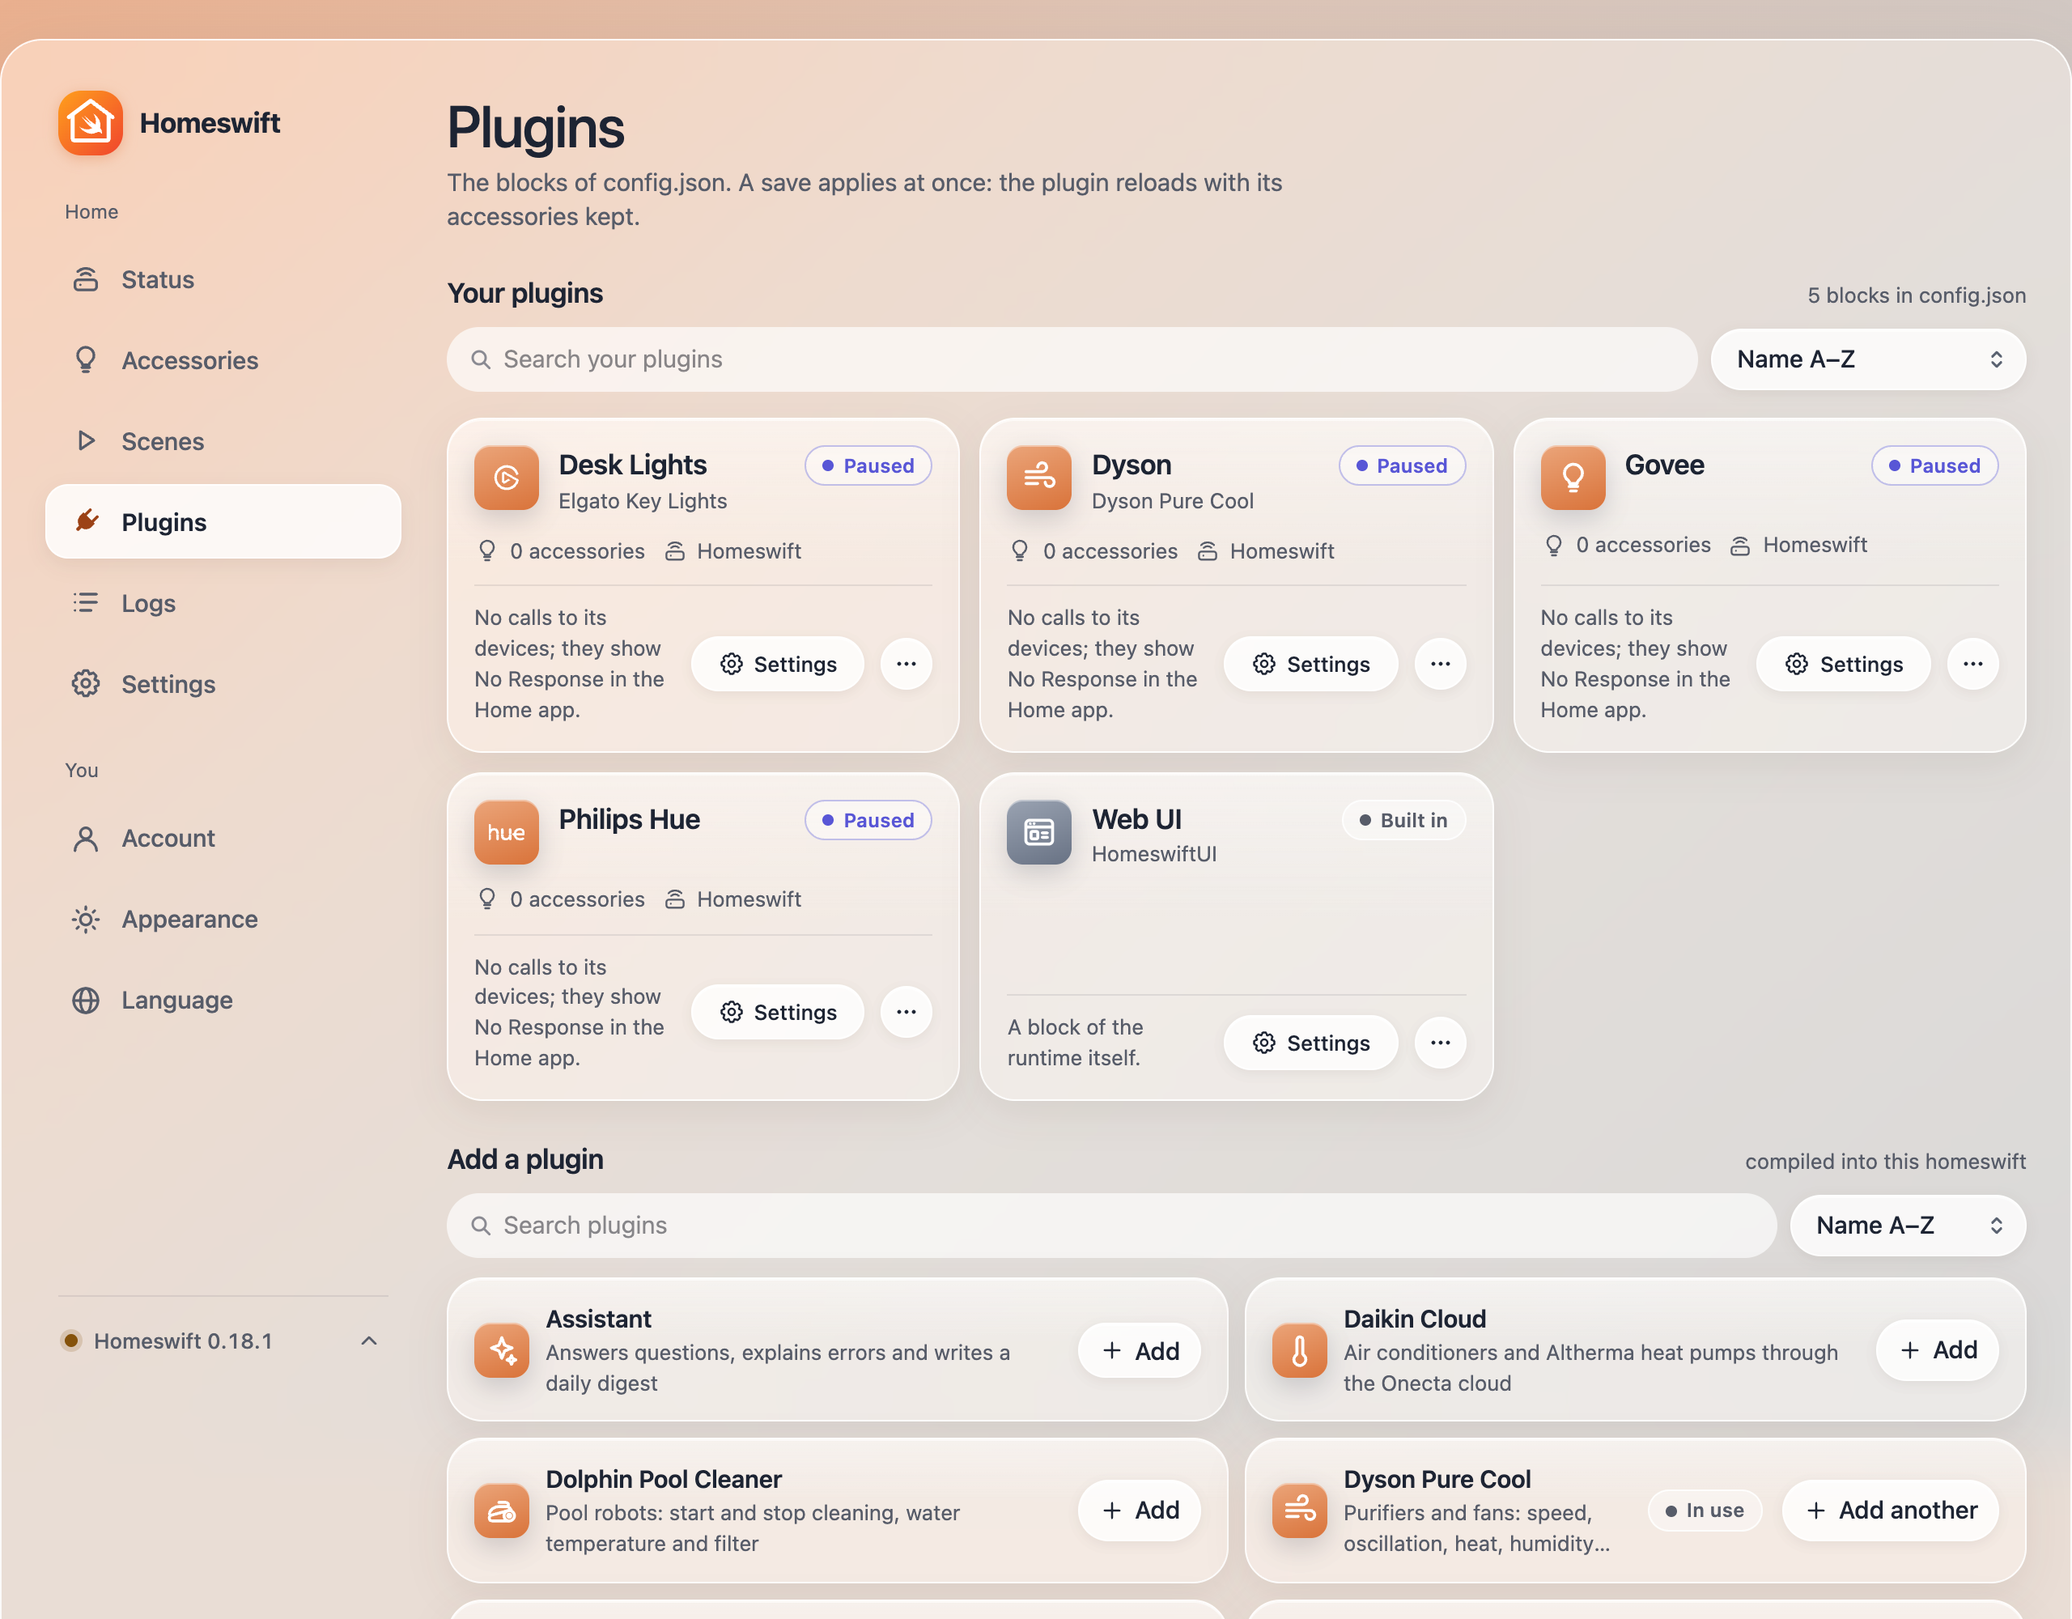
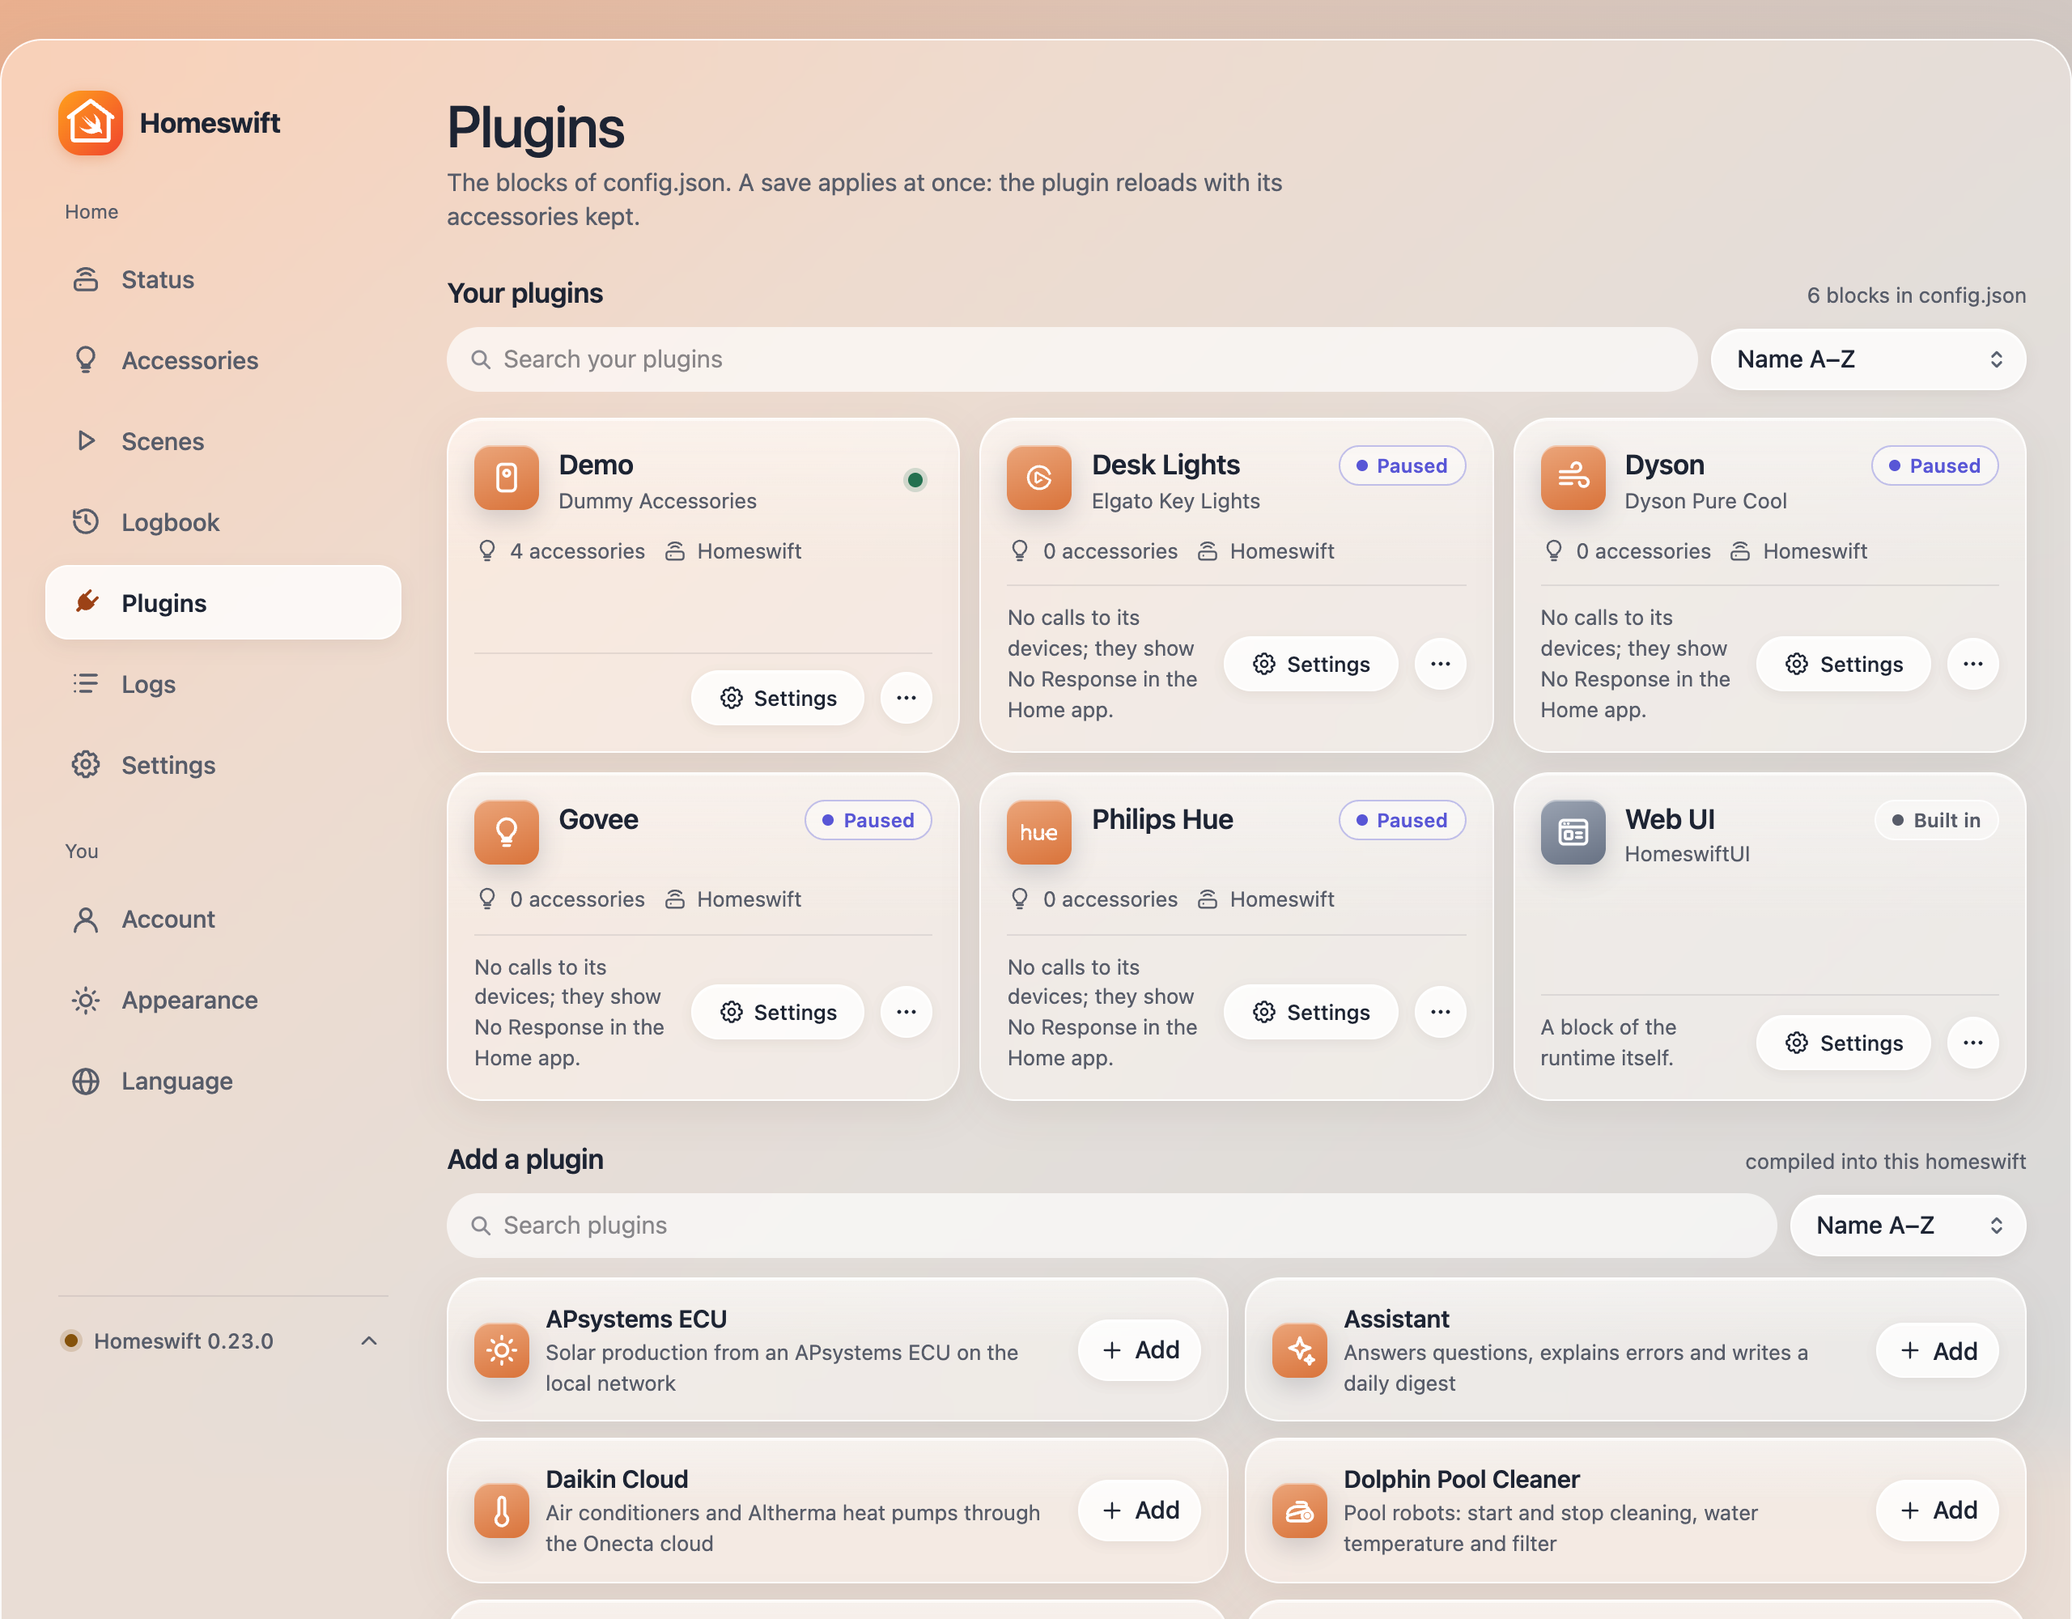
docs(history): the History, the Logbook and their screenshots
ui-screenshots.mjs adds a Dummy block with a generated day of History and
Logbook, and retakes the page shots, whose menu now has Logbook.

diff --git a/docs/ui.md b/docs/ui.md
@@ -38,7 +38,7 @@ added on the **Users** page ([Users, roles and API tokens](#users-roles-and-api-
 
 ## The pages
 
-The header has the sections (Status, Accessories, Scenes, Plugins, Logs, Settings), the Assistant's sparkle
+The header has the sections (Status, Accessories, Scenes, Logbook, Plugins, Logs, Settings), the Assistant's sparkle
 when it is on, and the account menu behind your initial: **Account**, **Appearance**, **Users** (administrators),
 **Language**, then apart and in orange **Restart homeswift…** (administrators), and **Sign out**. In a window 1180 px
 wide or more the app sits in one frame of glass and the header becomes the menu down its
@@ -152,11 +152,15 @@ screenshots, and what a plugin does to get good ones.
   that carry keys (a camera's Setup Endpoints) are not shown, nor what only HomeKit uses.
 - **A widget's ⋯ menu** (a right click on a tile): its size or its kind's, **All controls** (every control in a sheet,
   the rest under More), Identify, its log, ask the Assistant about it, add to the Quick Controls, **Settings…** and its
-  plugin's Settings (administrators), resume a paused plugin, and **History** for an accessory whose plugin records an
-  Eve history (temperature, humidity, power…) or that has a Meter: a day, a week or four weeks. A Meter's
-  **Consumption** comes first, a chart per Meter (named by its service on a device with several): bars of what it drew,
-  and what it returned below the line, by hour over a day and by day beyond, with the range's kWh and, with a Tariff,
-  its cost.
+  plugin's Settings (administrators), resume a paused plugin, and **History**, which opens the sheet on its History
+  tab.
+- **An accessory's sheet** has two tabs: **Controls** and **History** ([History and Logbook](#history-and-logbook)): a
+  chart per characteristic over **24 hours**, a **Week** or a **Year**. A number (a temperature, a brightness, a
+  power) is a line, each change held until the next over 24 hours, its hourly highest, average and lowest over a week,
+  and its daily ones over a year; a state (on, open, locked, motion, a mode) is a band split where it changed, a
+  colour per value. A Meter's **Consumption** comes first, a chart per Meter (named by its service on a device with
+  several): bars of what it drew, and what it returned below the line, by hour over a day and by day beyond, with the
+  range's kWh and, with a Tariff, its cost. **Logbook** opens the Logbook on that accessory.
 - **Full screen** (the toolbar's last button, or `/accessories?full=1` for a wall tablet's bookmark): the widgets alone,
   in the browser's own full screen where it has one. Grouped by room or by plugin, one group fills the screen at a time
   and the next is a swipe away (the arrow keys, the dots, the side arrows with a mouse); one button opens the toolbar
@@ -266,6 +270,33 @@ in the colour it has by bridge; a room's card lists its plugins, its device type
 screen** (the toolbar's last button, or `/accessories/graph?full=1`): the graph alone filling the window, its zoom at
 the bottom right as a map's and one button in the top corner for the search, the filters and Leave full screen, both
 fading while nothing happens; the cards and their actions work as on the page, a sheet from the bottom on a phone, and Esc leaves.
+
+### History and Logbook
+
+The bridge records every characteristic change of every accessory (GLOSSARY.md, "History"), under `history/` next to
+config.json, owner-only:
+
+- **History**: a state (a boolean, a mode, a string) at each change; a number at most every 10 seconds per
+  characteristic, at once when it moved by more than its step (its `minStep`, or half a percent of its range), else
+  once it settles, so the last value of a burst is always kept. Each change is kept for the bridge's **History kept
+  (days)**, 14 by default; each number's hourly lowest, time-weighted average and highest for **Hourly history kept
+  (years)**, 10 by default. Both are Bridge Settings ([Settings](#settings), `historyDays` and `historyYears` in the
+  bridge block; a change restarts the bridge). There is no opt-out per accessory.
+- **Logbook** (`/logbook`, in the menu): what changed in the home, newest first, by day: state changes (on and off,
+  open and closed, locked, motion, contact, modes), targets set, and every write, even one that changed nothing, each
+  with its **Change Source**: the Home app (by its pairing, the only thing HomeKit says of who wrote), a Homeswift user,
+  an MCP client (by the name it gave), an Automation or a Scene (by name), or the device itself (changed at the device,
+  by its hub, or by its plugin). Numeric readings (a temperature, a power) are left out: the History has them. Filter
+  by room, accessory, Change Source and time; the filters are the address's (`/logbook?room=Kitchen&source=homeApp`).
+  It is kept as long as the History's changes.
+
+![An accessory's History tab: a line per number, a band per state](images/ui/history.png)
+
+![The Logbook: each change with who or what made it](images/ui/logbook.png)
+
+`GET /api/accessories/<id>/history?range=day|week|year&timeZone=…` answers the History tab and `GET /api/logbook`
+(`room`, `accessory`, `source`, `sourceName`, `since`, `limit`) the Logbook, to anyone signed in, as the accessories
+are. Over MCP, `get_accessory_history` and `get_logbook` ([docs/mcp.md](mcp.md)).
 
 ### Quick controls
 
@@ -592,7 +623,8 @@ as an icon (shown when there is something to clear), and the time range and the 
 For administrators, after the Homebridge UI's settings, child bridges, backups and restart pages. Its tabs:
 
 - **Bridge** (`/settings/bridge`, where `/settings` opens): config.json's `bridge` block as a form (name, port, setup
-  code, manufacturer, model, firmware; saving restarts homeswift; the device ID stays). The setup code shows as the
+  code, manufacturer, model, firmware, and how long the History is kept: **History kept (days)** and **Hourly history
+  kept (years)**; saving restarts homeswift; the device ID stays). The setup code shows as the
   bridge runs with it, whether config.json keeps it sealed or in the vault, with a copy button and the pairing QR code;
   it is written back only when it changes. Then the network (the addresses, the
   advertiser), each server's HomeKit pairing with **Reset pairings…** in its ⋯ menu, the cached accessories (stale ones
@@ -984,7 +1016,8 @@ node Scripts/ui-screenshots.mjs
 
 It runs the bridge built at `~/Library/Caches/homeswift-build/debug/homeswift` (or the binary given) from a temporary
 folder with a new identity: the web UI on `127.0.0.1` without sign-in, plugin blocks with demonstration names, all
-paused, so nothing reaches a device or a cloud, and two generated images as wallpapers. It renders in headless Chrome in
+paused, so nothing reaches a device or a cloud, a Dummy block of accessories that exist only on the bridge with a
+generated day of History and Logbook (`writeHistory`), and two generated images as wallpapers. It renders in headless Chrome in
 light mode at 2x, replaces this machine's name and the folder's paths in what the API answers, answers a plugin's
 discovery with demonstration lights (so a plugin's Settings and an accessory's sheet never show this network's devices),
 and removes the folder when it ends. The Accessories page's images are [widgets.md](widgets.md#screenshots)'s. The Scenes page's shots that need lights (hubs' scenes,

diff --git a/docs/mcp.md b/docs/mcp.md
@@ -200,7 +200,7 @@ sends you back.
 
 | Scope | Tools |
 |---|---|
-| `read` | `get_server_status`, `list_accessories`, `get_accessory`, `get_accessory_history`, `list_plugins`, `get_config`, `list_config_backups`, `list_vault`, `get_recent_logs`, `search_logs`, `get_system_info`, `list_child_bridges`, `get_child_bridge_health`, `get_cached_accessories`, `get_pairing_info`, `get_matter_status`, `list_backups`, `get_settings`, `get_accessory_layout`, `get_wall_layout`, `list_scenes`, `list_scene_templates`, `list_hub_automations`, `get_assistant_usage`, `get_daily_digest`, `get_consumption`, `get_tariffs` |
+| `read` | `get_server_status`, `list_accessories`, `get_accessory`, `get_accessory_history`, `get_logbook`, `list_plugins`, `get_config`, `list_config_backups`, `list_vault`, `get_recent_logs`, `search_logs`, `get_system_info`, `list_child_bridges`, `get_child_bridge_health`, `get_cached_accessories`, `get_pairing_info`, `get_matter_status`, `list_backups`, `get_settings`, `get_accessory_layout`, `get_wall_layout`, `list_scenes`, `list_scene_templates`, `list_hub_automations`, `get_assistant_usage`, `get_daily_digest`, `get_consumption`, `get_tariffs` |
 | `control` | Plus `set_accessory`, `set_accessories` (with `dryRun`), `set_security_accessory`, `identify_accessory`, `run_scene` (a saved scene, a hub's, or a `plan`), `stop_scene` |
 | `admin` | Plus `update_config`, `patch_config`, `restore_config`, `migrate_to_vault` (with `dryRun`), `update_settings` (with `dryRun`), `forget_device` (with `dryRun`), `restart_bridge`, `restart_child_bridge`, `stop_child_bridge`, `start_child_bridge`, `remove_cached_accessory`, `reset_cached_accessories`, `reset_pairings`, `open_matter_commissioning_window`, `remove_matter_fabric`, `set_matter_device`, `create_backup`, `get_audit_log`, `update_bridge_settings`, `set_accessory_layout`, `set_wall_layout`, `save_scene` (with `dryRun`), `update_hub_scene` (with `dryRun`), `delete_hub_scene`, `update_hub_automation` (with `dryRun`), `delete_hub_automation`, `send_test_notification`, `truncate_logs`, `test_assistant_connection`, `update_tariffs` (with `dryRun`) |
 
@@ -344,11 +344,18 @@ its snapshot settings. TLV8 and data values mean nothing as text: they are null 
 - **Notifications.** `send_test_notification` sends a test through the channels that are on (`channel` for one:
   `webhook`, `ntfy`, `pushover`, `telegram`, `browser`) and answers per channel, 5 a minute at most. The channels
   are set up on the web UI's Notifications page, in a file of their own that no tool reads.
-- **History.** `get_accessory_history` reads the Eve history a plugin keeps for an accessory (`EveHistory`:
-  temperature, humidity, air quality, power, light level, contact, motion; ten-minute averages for four
-  weeks): per characteristic the min and max with when, the time-weighted average, the last value and the
-  points averaged down to `maxPoints`, over `hours` (24 by default). Accessories without such a history
-  answer with a note.
+- **History and Logbook** (GLOSSARY.md, "History"; [docs/ui.md](ui.md#history-and-logbook)). `get_accessory_history`
+  reads the History of every characteristic of an accessory over `hours` (24 by default): a number gets the min and max
+  with when, the time-weighted average, the last value and the points averaged down to `maxPoints`, from each change
+  within the bridge's History days (14 by default) and from its hourly figures beyond; a state gets its changes (the
+  newest `maxPoints`) and the value it held at the start. Where a plugin keeps an Eve history (`EveHistory`:
+  temperature, humidity, air quality, power, light level, contact, motion; ten-minute averages for four weeks), its
+  readings fill in before the History starts (`eveUntil`) or for a type the History lacks (`source: "eve"`).
+  `get_logbook` lists what changed, newest first: state changes, targets and every write, each with its Change Source
+  (`source.kind`: `homeApp` with the pairing's first characters, `user`, `mcp`, `automation`, `scene`, `device`; and
+  its `name`), the accessory's room as it is now; filtered by `room`, `accessory`, `source`, `sourceName`, `since` and
+  `until`. Its names came from devices and clients: the answer is wrapped in `<untrusted-data>`. The changes an MCP
+  client's tools make are its own in the Logbook (the web UI's chat's: its user's).
 - **Consumption** (GLOSSARY.md, "Energy"; docs/adr/0004-meters-and-consumption-history.md). `get_consumption` gives
   the energy each Meter measured, in kWh, whatever its plugin: its Consumption and Returned over the span, a bar per
   hour, day or month (each with `hours` known and `recordedHours` the bridge measured itself, imports and estimates

diff --git a/CHANGELOG.md b/CHANGELOG.md
@@ -6,6 +6,19 @@ All notable changes to this project are documented here. The format follows
 
 ## [Unreleased]
 
+### Added
+
+- History and Logbook: the bridge records every characteristic change of every accessory under `history/`: states at
+  each change, numbers at most every 10 seconds (at once past their step, else once settled) and by the hour (lowest,
+  average, highest) for years. The Logbook lists state changes, targets set and every write, each with its Change
+  Source: the Home app (by pairing), a Homeswift user, an MCP client, an Automation or Scene, or the device itself.
+  Retention is a Bridge Setting (`historyDays`, 14 by default; `historyYears`, 10).
+- Web UI: an accessory's sheet has a **History** tab beside its controls, a chart per characteristic over 24 hours, a
+  week or a year (a state as a band of its values); a **Logbook** page (`/logbook`) filtered by room, accessory and
+  Change Source.
+- MCP: `get_logbook`; `get_accessory_history` reads the History of every characteristic, with the Eve history where it
+  goes further back.
+
 ## [0.23.0] - 2026-11-06
 
 ### Added

diff --git a/docs/translations.md b/docs/translations.md
@@ -136,6 +136,10 @@ HomeswiftUI, JSON, MCP, OAuth, plugins' and brands' names, units.
 | Scenes | Scènes | Escenas | Cenas |
 | Config | Config | Configuración | Configuração |
 | Logs | Journaux | Registros | Registos |
+| History (an accessory's values over time) | historique | historial | histórico |
+| Logbook | journal de bord | bitácora | diário de bordo |
+| Change Source | auteur du changement | origen del cambio | origem da alteração |
+| automation | automatisation | automatización | automação |
 | Settings | Réglages | Ajustes | Definições |
 | Appearance | Apparence | Apariencia | Aspeto |
 | the Assistant | l'Assistant | el Asistente | o Assistente |
